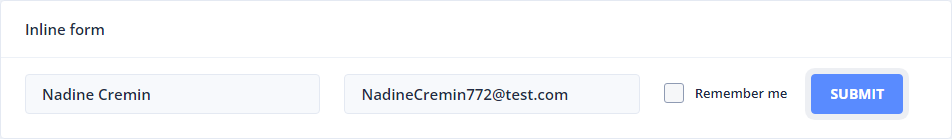
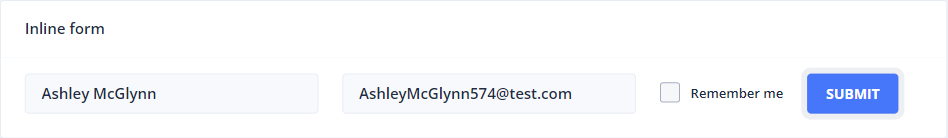
pw-practive-app1-commit

diff --git a/tests/usePageObjects.spec.ts b/tests/usePageObjects.spec.ts
@@ -24,13 +24,13 @@ test('parametrized methods', async({page}) => {
 
     await pm.navigateTo().formLayoutsPage()
     await pm.onFormLayoutsPage().submitUsingTheGridFormWithCredentialsAndSelectOption(process.env.USERNAME, process.env.PASSWORD, 'Option 2')
-    await page.screenshot({path: 'screenshots/formsLayoutsPage.png'})   //screenshot-create a new folder
-    const buffer = await page.screenshot()                              //save as binary image
-    console.log(buffer.toString('base64'))  //print screenshot binary string
+    // await page.screenshot({path: 'screenshots/formsLayoutsPage.png'})   //screenshot-create a new folder
+    // const buffer = await page.screenshot()                              //save as binary image
+    // console.log(buffer.toString('base64'))  //print screenshot binary string
 
     await pm.onFormLayoutsPage().submitInlineFormWithNameEmailAndCheckbox(randomFullName, randomEmail, false)
-    await page.locator('nb-card', {hasText: "Inline form"}).screenshot({path: 'screenshots/inlineForm.png'})
-    await pm.navigateTo().datepickerPage() 
-    await pm.onDatepickerPage().selectCommonDatePickerDateFromToday(10)
-    await pm.onDatepickerPage().selectDatepickerWithRangeFromToday(6, 15)   
+    // await page.locator('nb-card', {hasText: "Inline form"}).screenshot({path: 'screenshots/inlineForm.png'})
+    // await pm.navigateTo().datepickerPage() 
+    // await pm.onDatepickerPage().selectCommonDatePickerDateFromToday(10)
+    // await pm.onDatepickerPage().selectDatepickerWithRangeFromToday(6, 15)   
 })

diff --git a/tests/testWithFixtures.spec.ts b/tests/testWithFixtures.spec.ts
@@ -1,18 +1,12 @@
-import {test, expect} from'@playwright/test' 
-import { PageManager } from '../page-objects/pageManager' //Need to import from PageManager
-import {base, faker} from '@faker-js/faker'
+import {test} from '../test-options' 
+import {faker} from '@faker-js/faker'
 
-test.beforeEach(async({page}) => {
-    await page.goto('/') 
-})
 
-test('parametrized methods', async({page}) => { 
-    //create an instance of the PageManager (pm)
-    const pm = new PageManager(page) 
+
+test('parametrized methods', async({pageManager}) => { 
     const randomFullName = faker.person.fullName()
     const randomEmail = `${randomFullName.replace(' ', '')}${faker.number.int(1000)}@test.com`
 
-    await pm.navigateTo().formLayoutsPage()
-    await pm.onFormLayoutsPage().submitUsingTheGridFormWithCredentialsAndSelectOption(process.env.USERNAME, process.env.PASSWORD, 'Option 2')
-    await pm.onFormLayoutsPage().submitInlineFormWithNameEmailAndCheckbox(randomFullName, randomEmail, false)
+    await pageManager.onFormLayoutsPage().submitUsingTheGridFormWithCredentialsAndSelectOption(process.env.USERNAME, process.env.PASSWORD, 'Option 2')
+    await pageManager.onFormLayoutsPage().submitInlineFormWithNameEmailAndCheckbox(randomFullName, randomEmail, false)
 })

diff --git a/test-options.ts b/test-options.ts
@@ -1,11 +1,25 @@
-import {test as base} from '@playwright/test'   //file to keep test URL options
+import {test as base} from '@playwright/test'   
+import { PageManager } from '../pw-practice-app1/page-objects/pageManager' 
 
 export type TestOptions = {
     globalsQaURL: string
-
+    formLayoutsPage: string
+    pageManager: PageManager
 }
 
 export const test = base.extend<TestOptions>({
-    globalsQaURL: ['', {option: true}]
+    globalsQaURL: ['', {option: true}],
+    
+    formLayoutsPage: async({page}, use) => {
+        await page.goto('/')
+        await page.getByText('Forms').click()
+        await page.getByText('Form Layouts').click()
+        await use('')
+        console.log('Tear Down')
+    },    //remove array [{auto: true}],
 
+    pageManager: async({page, formLayoutsPage}, use) => {
+        const pm = new PageManager(page)
+        await use(pm) 
+    }
 })

diff --git a/playwright.config.ts b/playwright.config.ts
@@ -14,7 +14,6 @@ export default defineConfig<TestOptions>({
   reporter: 'html',
   
   use: {
-    //baseURL: 'http://localhost:4200/', //'http://127.0.0.1:3000',
     globalsQaURL: 'https://www.globalsqa.com/demo-site/draganddrop/', 
     baseURL: process.env.DEV === '1' ? 'http://localhost:4201/'
           : process.env.STAGING == '1' ? 'http://localhost:4202/'
@@ -50,12 +49,12 @@ export default defineConfig<TestOptions>({
         }
       }
     },
-    {
-      name: 'pageObjectFullScreen',
-      testMatch: 'usePageObjects.spec.ts',
-      use: {
-        viewport: {width: 1920, height: 1080}
-      }
-    }
+    // {
+    //   name: 'pageObjectFullScreen',
+    //   testMatch: 'usePageObjects.spec.ts',
+    //   use: {
+    //     viewport: {width: 1920, height: 1080}
+    //   }
+    // }
   ]
 });

diff --git a/playwright-prod.config.ts b/playwright-prod.config.ts
@@ -7,7 +7,7 @@ export default defineConfig<TestOptions>({
      
   use: {
     globalsQaURL: 'https://www.globalsqa.com/demo-site/draganddrop/', 
-    baseURL: 'http://localhost:4200/', //'http://127.0.0.1:3000',
+    baseURL: 'http://localhost:4200/', 
   },
 
   projects: [
